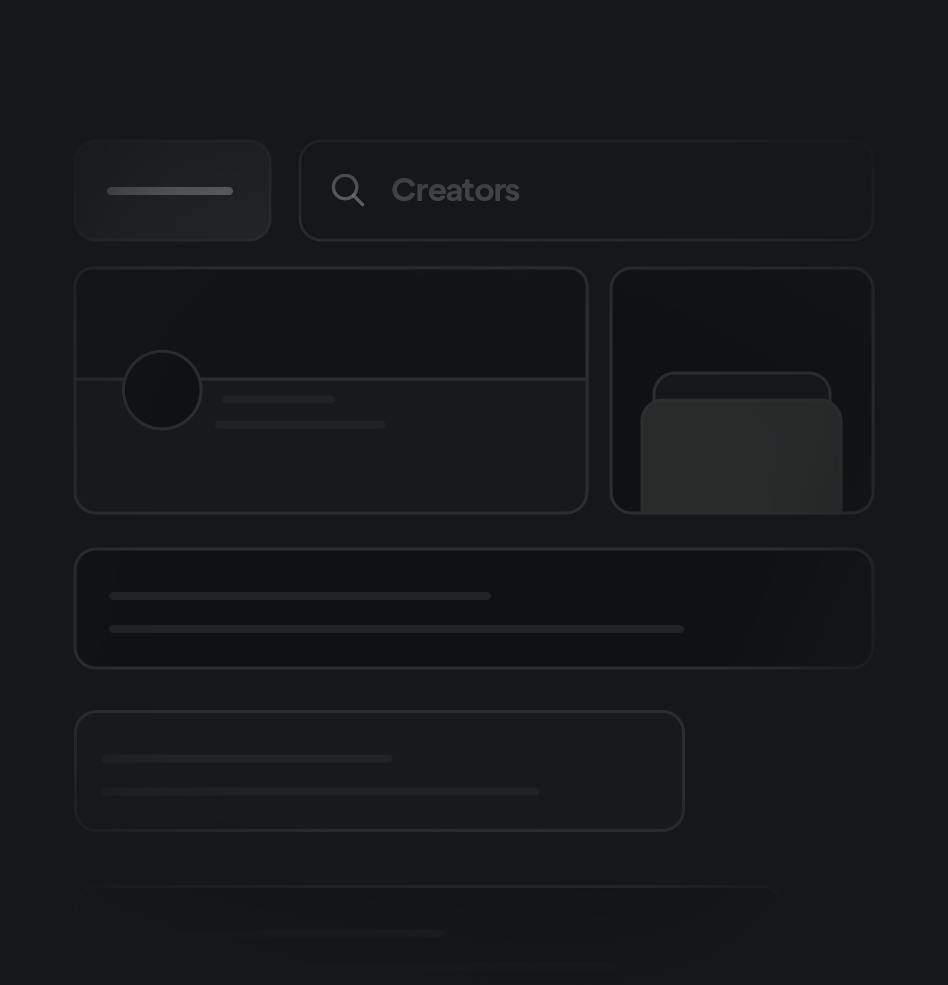
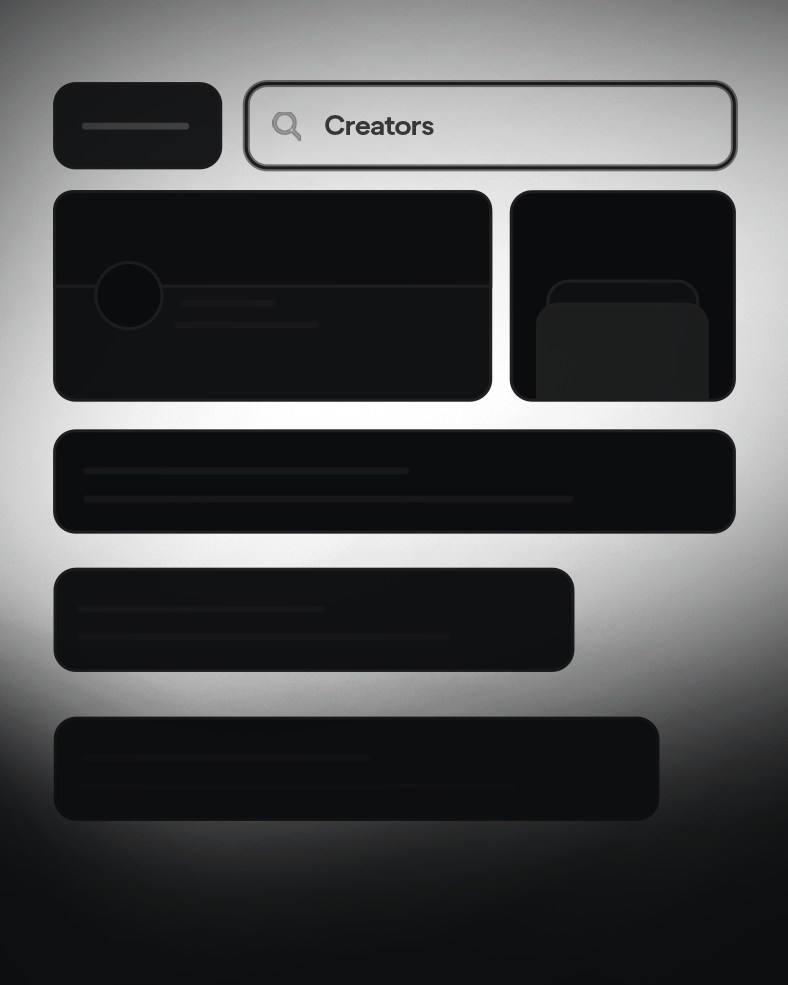
FRONTEND: added homepage, small edits on dashboard, globals.css assets, installed ui lib [flipwords.tsx, Spotlight.tsx]

diff --git a/frontend/src/app/home/page.tsx b/frontend/src/app/home/page.tsx
@@ -1,0 +1,112 @@
+import { Spotlight } from "@/components/ui/spotlight-new";
+import { FlipWords } from "@/components/ui/flip-words";
+import { cn } from "@/lib/utils";
+import { Rocket } from "lucide-react";
+import PanelImage from "@/assets/Panel1.png";
+import PanelImage2 from "@/assets/Panel2.png";
+import PanelImage3 from "@/assets/Panel3.png";
+import Link from "next/link";
+
+const Home = () => {
+  const words = ["creator", "artist", "people", "developer"];
+
+  return (
+    <div className="dark">
+      <div className="w-full min-h-screen relative overflow-hidden bg-black/[0.96]">
+        {/* Grid bg */}
+        <div
+          className={cn(
+            "absolute inset-0 z-0",
+            "[background-size:40px_40px]",
+            "[background-image:linear-gradient(to_right,#e4e4e7_1px,transparent_1px),linear-gradient(to_bottom,#e4e4e7_1px,transparent_1px)]",
+            "dark:[background-image:linear-gradient(to_right,#101010_1px,transparent_1px),linear-gradient(to_bottom,#101010_1px,transparent_1px)]"
+          )}
+        />
+        <div className="pointer-events-none absolute inset-0 z-10 bg-black [mask-image:radial-gradient(ellipse_at_center,transparent_20%,black)]" />
+        {/* Spotlight  */}
+        <div className="absolute inset-0 z-10">
+          <Spotlight />
+        </div>
+        {/* Content */}
+        <div className="w-full h-[800px] flex items-center justify-center">
+          <div className="p-4 max-w-7xl mx-auto relative z-20 w-full flex flex-col items-center justify-center gap-4">
+            <h1 className="text-4xl md:text-7xl font-bold text-center bg-clip-text text-transparent bg-gradient-to-b from-neutral-50 to-neutral-400 bg-opacity-50">
+              Support your <br />
+              favourite{" "}
+              <FlipWords words={words} className="dark:text-pink-500" />
+            </h1>
+            <p className="font-normal text-base text-neutral-400 max-w-lg text-center mx-auto">
+              Accept support. Start a your personal Page.It’s easier than you
+              think.
+            </p>
+            <Link href={`/auth/sign-in`}>
+              <button className="mt-10 relative inline-flex h-12 w-36 hover:w-44 overflow-hidden rounded-full p-[2px] focus:outline-none focus:ring-0 group transition-all duration-200 ease-in-out">
+                <span className="absolute inset-[-1000%] animate-[spin_2s_linear_infinite] bg-[conic-gradient(from_90deg_at_50%_50%,#E2CBFF_0%,#393BB2_50%,#E2CBFF_100%)]" />
+                <span className="inline-flex h-full w-full cursor-pointer items-center justify-center rounded-full bg-slate-950 px-3 py-1 text-sm font-medium text-white backdrop-blur-3xl gap-2">
+                  <Rocket
+                    width={16}
+                    className="opacity-0 group-hover:opacity-100 transition-all duration-200 ease-in-out"
+                  />
+                  <p className="-ml-5 group-hover:ml-0 transition-all duration-200 ease-in-out">
+                    Start My Page
+                  </p>
+                </span>
+              </button>
+            </Link>
+          </div>
+        </div>
+      </div>
+      {/* Section */}
+      <div className="w-[97%] h-[700px] rounded-3xl bg-[var(--foreground)]/95 m-auto my-20 flex justify-center items-center"></div>
+      {/* END */}
+      {/* Section2 */}
+      <section className="w-full flex flex-col justify-center items-center gap-2 light pb-96">
+        <p className="text-[var(--foreground)] font-bold text-4xl">
+          Built for modern teams
+        </p>
+        <p className="text-[var(--foreground)]/50 text-base text-center font-medium">
+          Crafted with customizability and collaboration in mind.
+          <br /> Designed to impress.
+        </p>
+        <div className="w-5/8 flex justify-center items-center gap-6 mt-10">
+          <div className="w-full h-auto aspect-4/5 bg-[#ffffff08] hover:bg-[#ffffff12] relative rounded-2xl overflow-hidden group cursor-pointer transition-all">
+            <div className="w-full absolute bottom-7 flex justify-center items-center z-20">
+              <p className="text-[var(--foreground)] text-lg font-bold">
+                Track all your supporters
+              </p>
+            </div>
+            <img
+              src={PanelImage.src}
+              className="w-full h-full group-hover:scale-105 transition-all duration-400 ease-in-out z-0"
+            />
+          </div>
+          <div className="w-full h-auto aspect-4/5 bg-[#ffffff08] hover:bg-[#ffffff12] relative rounded-2xl overflow-hidden group cursor-pointer transition-all">
+            <div className="w-full absolute bottom-7 flex justify-center items-center z-20">
+              <p className="text-[var(--foreground)] text-lg font-bold">
+                Discover new favorites
+              </p>
+            </div>
+            <img
+              src={PanelImage2.src}
+              className="w-full h-full group-hover:scale-105 transition-all duration-400 ease-in-out z-0"
+            />
+          </div>{" "}
+          <div className="w-full h-auto aspect-4/5 bg-[#ffffff08] hover:bg-[#ffffff12] relative rounded-2xl overflow-hidden group cursor-pointer transition-all">
+            <div className="w-full absolute bottom-7 flex justify-center items-center z-20">
+              <p className="text-[var(--foreground)] text-lg font-bold">
+                Support the people
+              </p>
+            </div>
+            <img
+              src={PanelImage3.src}
+              className="w-full h-full group-hover:scale-105 transition-all duration-400 ease-in-out z-0"
+            />
+          </div>
+        </div>
+      </section>
+      {/* END */}
+    </div>
+  );
+};
+
+export default Home;

diff --git a/frontend/src/components/ui/flip-words.tsx b/frontend/src/components/ui/flip-words.tsx
@@ -1,0 +1,98 @@
+"use client";
+import React, { useCallback, useEffect, useRef, useState } from "react";
+import { AnimatePresence, motion, LayoutGroup } from "motion/react";
+import { cn } from "@/lib/utils";
+
+export const FlipWords = ({
+  words,
+  duration = 3000,
+  className,
+}: {
+  words: string[];
+  duration?: number;
+  className?: string;
+}) => {
+  const [currentWord, setCurrentWord] = useState(words[0]);
+  const [isAnimating, setIsAnimating] = useState<boolean>(false);
+
+  // thanks for the fix Julian - https://github.com/Julian-AT
+  const startAnimation = useCallback(() => {
+    const word = words[words.indexOf(currentWord) + 1] || words[0];
+    setCurrentWord(word);
+    setIsAnimating(true);
+  }, [currentWord, words]);
+
+  useEffect(() => {
+    if (!isAnimating)
+      setTimeout(() => {
+        startAnimation();
+      }, duration);
+  }, [isAnimating, duration, startAnimation]);
+
+  return (
+    <AnimatePresence
+      onExitComplete={() => {
+        setIsAnimating(false);
+      }}
+    >
+      <motion.div
+        initial={{
+          opacity: 0,
+          y: 10,
+        }}
+        animate={{
+          opacity: 1,
+          y: 0,
+        }}
+        transition={{
+          type: "spring",
+          stiffness: 100,
+          damping: 10,
+        }}
+        exit={{
+          opacity: 0,
+          y: -40,
+          x: 40,
+          filter: "blur(8px)",
+          scale: 2,
+          position: "absolute",
+        }}
+        className={cn(
+          "z-10 inline-block relative text-left text-neutral-900 dark:text-neutral-100 px-2",
+          className
+        )}
+        key={currentWord}
+      >
+        {/* edit suggested by Sajal: https://x.com/DewanganSajal */}
+        {currentWord.split(" ").map((word, wordIndex) => (
+          <motion.span
+            key={word + wordIndex}
+            initial={{ opacity: 0, y: 10, filter: "blur(8px)" }}
+            animate={{ opacity: 1, y: 0, filter: "blur(0px)" }}
+            transition={{
+              delay: wordIndex * 0.3,
+              duration: 0.3,
+            }}
+            className="inline-block whitespace-nowrap"
+          >
+            {word.split("").map((letter, letterIndex) => (
+              <motion.span
+                key={word + letterIndex}
+                initial={{ opacity: 0, y: 10, filter: "blur(8px)" }}
+                animate={{ opacity: 1, y: 0, filter: "blur(0px)" }}
+                transition={{
+                  delay: wordIndex * 0.3 + letterIndex * 0.05,
+                  duration: 0.2,
+                }}
+                className="inline-block"
+              >
+                {letter}
+              </motion.span>
+            ))}
+            <span className="inline-block">&nbsp;</span>
+          </motion.span>
+        ))}
+      </motion.div>
+    </AnimatePresence>
+  );
+};

diff --git a/frontend/src/components/ui/Spotlight.tsx b/frontend/src/components/ui/Spotlight.tsx
@@ -1,0 +1,56 @@
+import React from "react";
+import { cn } from "@/lib/utils";
+
+type SpotlightProps = {
+  className?: string;
+  fill?: string;
+};
+
+export const Spotlight = ({ className, fill }: SpotlightProps) => {
+  return (
+    <svg
+      className={cn(
+        "animate-spotlight pointer-events-none absolute z-[1]  h-[169%] w-[138%] lg:w-[84%] opacity-0",
+        className
+      )}
+      xmlns="http://www.w3.org/2000/svg"
+      viewBox="0 0 3787 2842"
+      fill="none"
+    >
+      <g filter="url(#filter)">
+        <ellipse
+          cx="1924.71"
+          cy="273.501"
+          rx="1924.71"
+          ry="273.501"
+          transform="matrix(-0.822377 -0.568943 -0.568943 0.822377 3631.88 2291.09)"
+          fill={fill || "white"}
+          fillOpacity="0.21"
+        ></ellipse>
+      </g>
+      <defs>
+        <filter
+          id="filter"
+          x="0.860352"
+          y="0.838989"
+          width="3785.16"
+          height="2840.26"
+          filterUnits="userSpaceOnUse"
+          colorInterpolationFilters="sRGB"
+        >
+          <feFlood floodOpacity="0" result="BackgroundImageFix"></feFlood>
+          <feBlend
+            mode="normal"
+            in="SourceGraphic"
+            in2="BackgroundImageFix"
+            result="shape"
+          ></feBlend>
+          <feGaussianBlur
+            stdDeviation="151"
+            result="effect1_foregroundBlur_1065_8"
+          ></feGaussianBlur>
+        </filter>
+      </defs>
+    </svg>
+  );
+};

diff --git a/frontend/src/app/globals.css b/frontend/src/app/globals.css
@@ -126,18 +126,18 @@
 
   body {
     @apply bg-background text-foreground;
+    background-color: black;
     font-family: Manrope;
   }
 }
 
+/* Country Select Style Override Code */
 .ReactFlagsSelect-module_selectBtn__19wW7 {
   border: none !important;
 }
-
 .ReactFlagsSelect-module_flagsSelect__2pfa2 {
   padding-bottom: 0 !important;
 }
-
 .ReactFlagsSelect-module_selectOptions__3LNBJ {
   background: #161616 !important;
   border-radius: 16px !important;
@@ -145,30 +145,23 @@
   width: 352px !important;
   padding: 0 !important;
   margin-top: 16px !important;
-
 }
-
 .ReactFlagsSelect-module_fullWidthOptions__1XeR6 {
   left: -17px !important;
 }
-
 .ReactFlagsSelect-module_selectOption__3pcgW {
   margin-top: 10px !important;
 }
-
 .ReactFlagsSelect-module_selectOption__3pcgW:hover {
   background: #3B3B3B !important;
   transition: all 0.3s ease-in-out !important;
 }
-
-
 input::-webkit-outer-spin-button,
 input::-webkit-inner-spin-button {
   -webkit-appearance: none;
   margin: 0;
 }
-
-/* Firefox */
 input[type=number] {
   -moz-appearance: textfield;
 }
+/* End */

diff --git a/frontend/src/app/dashboard/page.tsx b/frontend/src/app/dashboard/page.tsx
@@ -85,7 +85,7 @@ const Dashboard = () => {
                 <p className="text-xl text-[var(--background)] font-bold">
                   Jameson Cole
                 </p>
-                  <EditCreditCard />
+                <EditCreditCard />
               </div>
               <div className="w-full h-1/4 flex justify-between items-center">
                 <div className="flex flex-row items-center gap-4">

diff --git a/frontend/src/app/home/layout.tsx b/frontend/src/app/home/layout.tsx
@@ -1,0 +1,11 @@
+"use client";
+
+import LayoutComp from "@/components/LayoutComp";
+
+export default function HomeLayout({
+  children,
+}: {
+  children: React.ReactNode;
+}) {
+  return <LayoutComp>{children}</LayoutComp>;
+}
